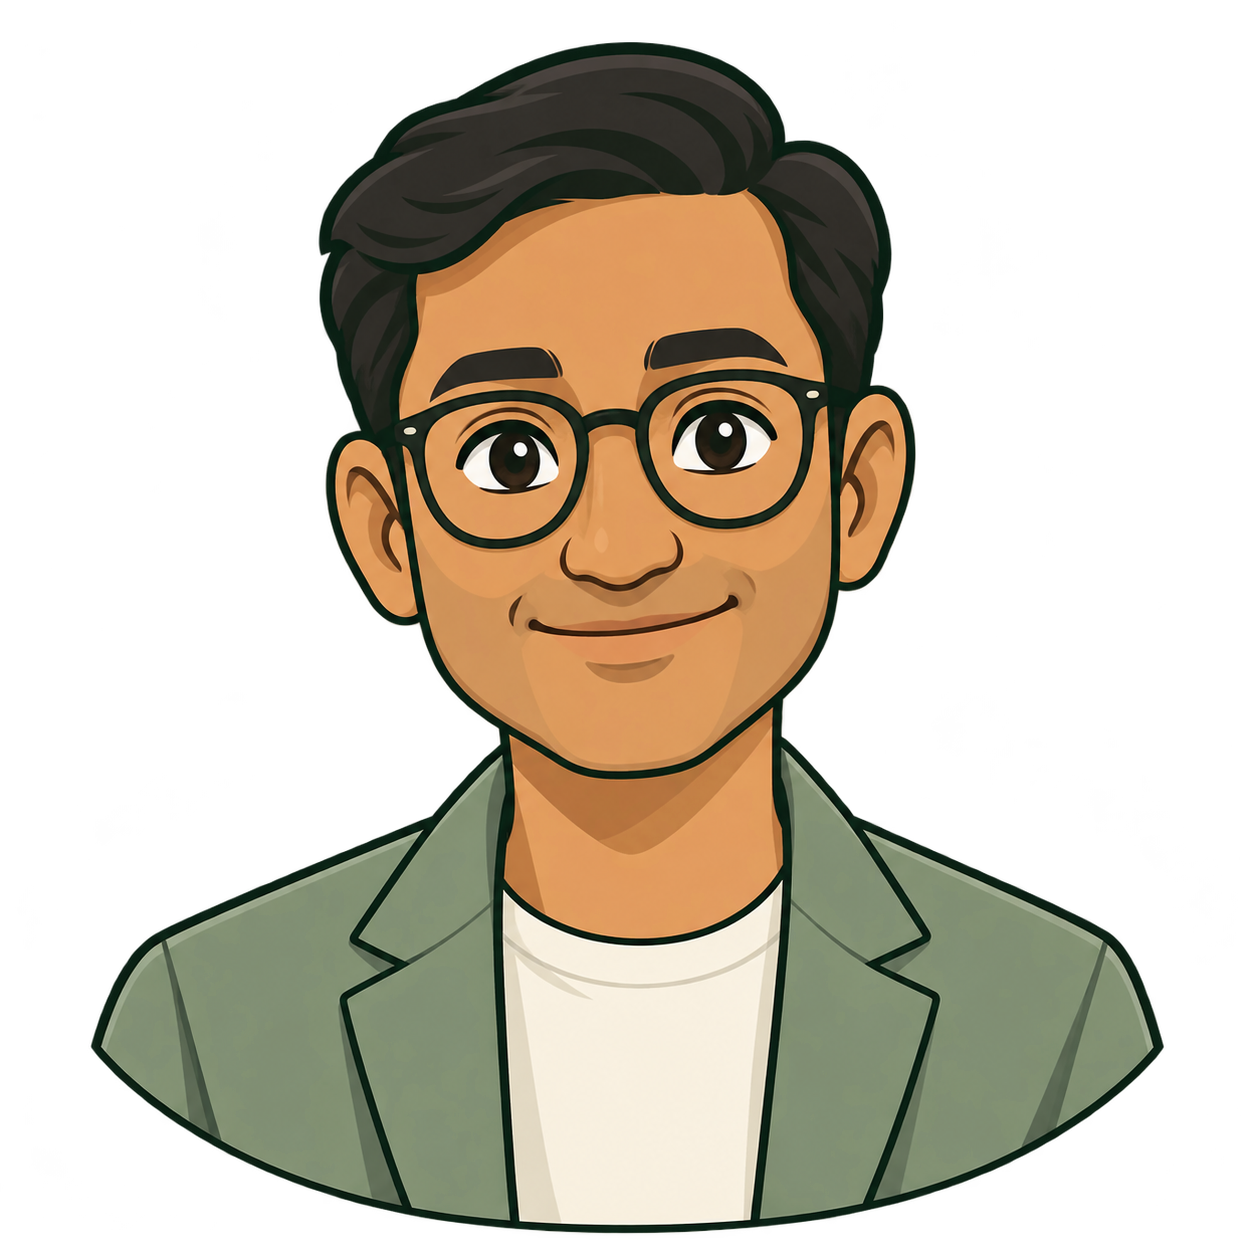
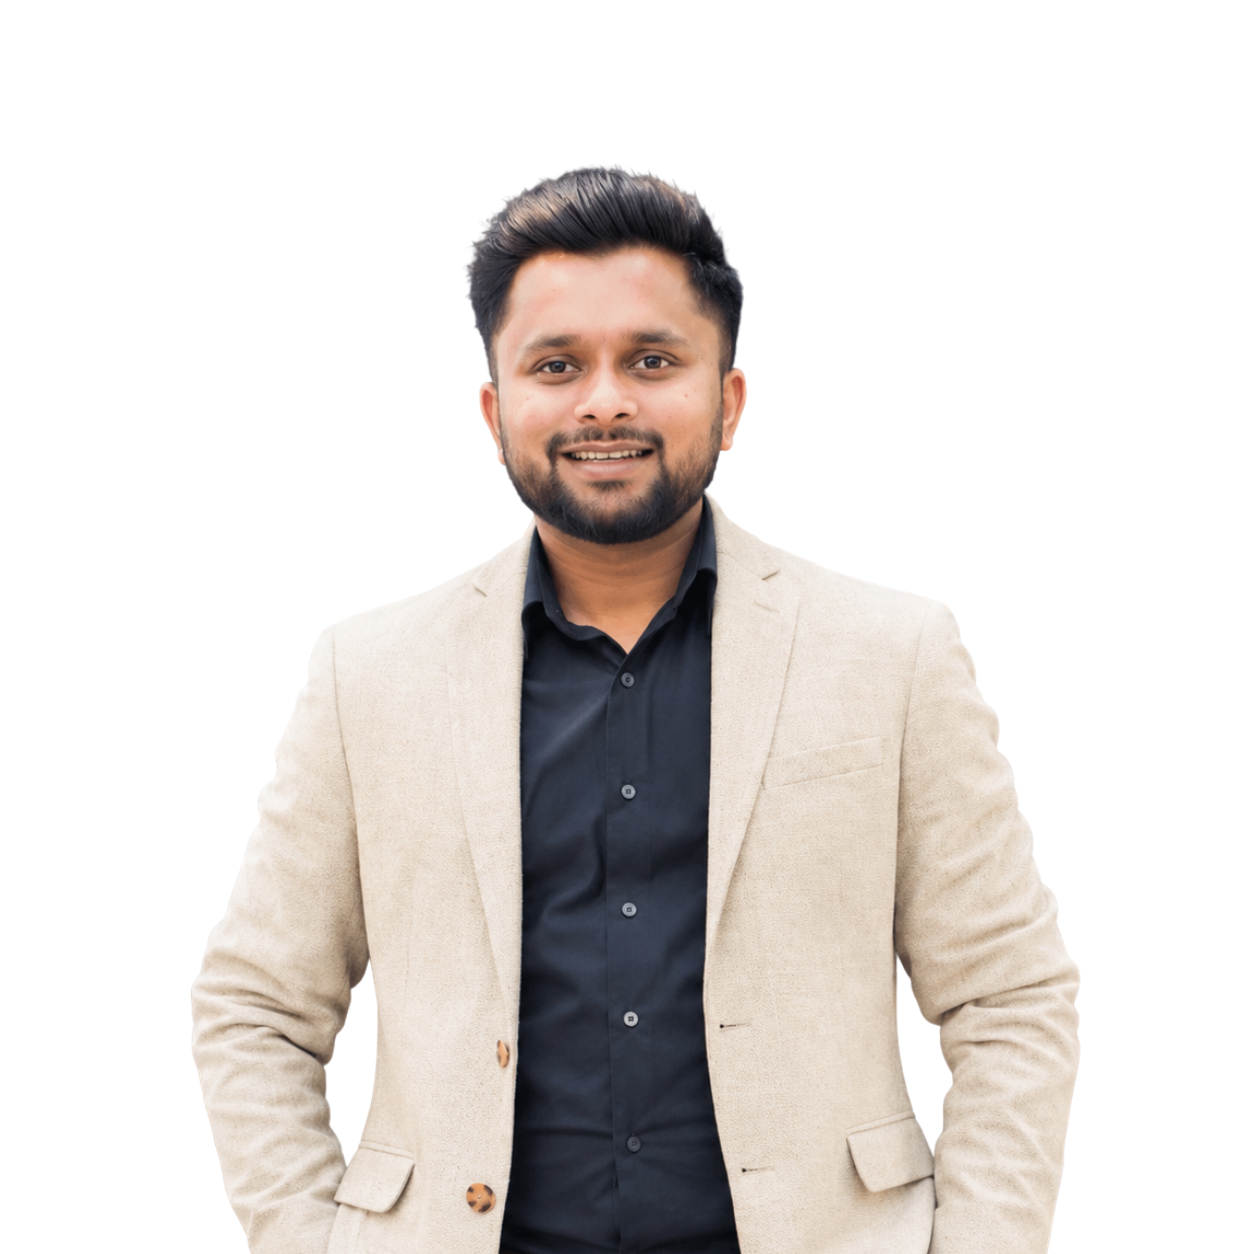
Update link of footer

diff --git a/frontend/src/components/Footer.jsx b/frontend/src/components/Footer.jsx
@@ -19,11 +19,11 @@ export const footerLinkGroups = [
     id: "learn",
     title: "Learn",
     links: [
-      { label: "Male fertility basics", href: "/#professional-guidance" },
-      { label: "Sperm health", href: "/#appointment-journey" },
-      { label: "Fertility Factors", href: "/#appointment-journey" },
-      { label: "Semen Analysis", href: "/#privacy" },
-      { label: "Preparing for a consultation", href: "/#privacy" },
+      { label: "Male fertility basics", href: "https://www.icmr.gov.in/icmrobject/custom_data/pdf/downloadable-books/STW_Manual_v1.pdf" },
+      { label: "Sperm health", href: "https://www.icmr.gov.in/icmrobject/uploads/STWs/1765885318_maleinfertility2.pdf" },
+      { label: "Fertility Factors", href: "https://pmc.ncbi.nlm.nih.gov/articles/PMC9942225/" },
+      { label: "Semen Analysis", href: "https://pmc.ncbi.nlm.nih.gov/articles/PMC9942225/" },
+      { label: "Preparing for a consultation", href: "https://nirwoh.icmr.gov.in/pcos-clinic/" },
     ],
   },
   {
